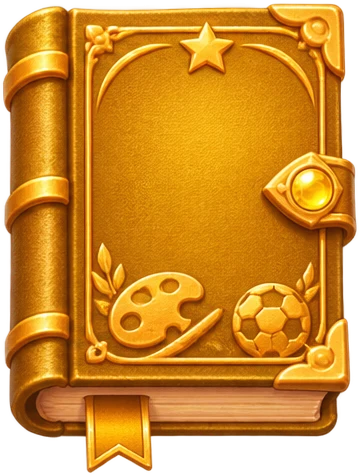
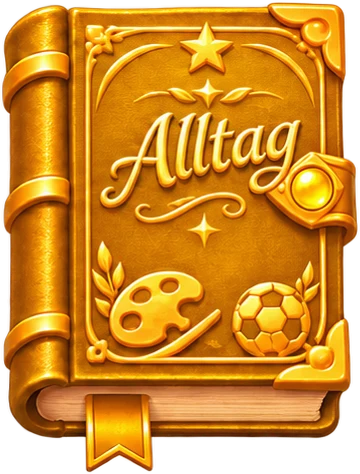
Bibliothek: Dejans neue Bücher mit Titel im Bild
Claude-Session: https://claude.ai/code/session_015F4ypguKCiePf7SvTB76p6

diff --git a/stil.js b/stil.js
@@ -1856,7 +1856,7 @@ ${R}[data-buch="geschichte"] .btitel{font-size:17cqi!important}${R}:is([data-buc
 .zauber .zbuch[data-buch] .zvorne .btitel{font-size:2.1rem!important}
 ${FARBE.map(([id, t, st]) => `${R}[data-buch="${id}"],.zauber .zbuch[data-buch="${id}"]{--bt:${t};--bs:${st}}`).join("\n")}
 
-${IDS.map(id => `${R}[data-buch="${id}"] .bcover,.zauber .zbuch[data-buch="${id}"] .zvorne{background-image:url("${B}${id}.webp?v=1")!important}`).join("\n")}
+${IDS.map(id => `${R}[data-buch="${id}"] .bcover,.zauber .zbuch[data-buch="${id}"] .zvorne{background-image:url("${B}${id}.webp?v=2")!important}`).join("\n")}
 .zauber .zbuch[data-buch] .zvorne{background-color:transparent!important;background-position:center!important;background-size:100% 100%!important;background-repeat:no-repeat!important;box-shadow:none!important;border-radius:0!important;padding:16% 24% 30% 17%!important;filter:drop-shadow(0 0 18px rgba(255,214,110,.7))}
 .zauber .zbuch[data-buch] .zvorne::before,.zauber .zbuch[data-buch] .zvorne .bemo2{display:none!important}
 .zauber .zbuch[data-buch] .zvorne .bunter{color:#FFE9A8;font-weight:700;text-shadow:0 1px 2px rgba(0,0,0,.7)}
@@ -1868,6 +1868,9 @@ ${IDS.map(id => `${R}[data-buch="${id}"] .bcover,.zauber .zbuch[data-buch="${id}
 .zkreis text{fill:#FFE29A;font:11px Georgia,serif;letter-spacing:3px}
 @keyframes zkdreh{to{transform:rotate(360deg)}}
 @media (prefers-reduced-motion: reduce){.zkreis svg{animation:none}}`;
+  c.textContent += `
+/* Dejans Bücher tragen den Titel jetzt selbst im Bild */
+${R} .btitel,${R} .bunter,.zauber .zbuch[data-buch] .zvorne .btitel,.zauber .zbuch[data-buch] .zvorne .bunter{position:absolute!important;width:1px!important;height:1px!important;overflow:hidden!important;clip:rect(0 0 0 0)!important;white-space:nowrap!important}`;
   document.head.appendChild(c);
   /* Titel so verkleinern, dass er samt Schräglage im inneren Goldrahmen bleibt */
   const SCHRAEG = 9 * Math.PI / 180;

diff --git a/index.html b/index.html
@@ -74,7 +74,7 @@ html.ep-boot #epBoot{display:flex;position:fixed;inset:0;z-index:99999;flex-dire
 <link rel="preload" as="image" href="img/kinder.webp">
 <script>/* Versionsprüfung: Ist diese Seite älter als die veröffentlichte Version (alter Speicher, Browser-Cache,
    Homescreen-App), alles Alte löschen und einmal frisch laden. Höchstens einmal pro 10 Minuten. */
-window.EP_BUILD="ep-2026-11-01-48";
+window.EP_BUILD="ep-2026-11-01-49";
 (function(){ try{
   if(window.claude || window.EP_NATIV || !/^https?:$/.test(location.protocol)){ window.__epVer="ok"; return; }   /* App (alles eingebaut) und Vorschau: keine Prüfung */
   /* Prüft, ob auf dem Server eine neuere Version liegt. Läuft beim Laden UND jedes Mal, wenn die Seite

diff --git a/sw.js b/sw.js
@@ -2,7 +2,7 @@
    Sorgt für schnelle Wiederholungsbesuche und Offline-Nutzung.
    Bei jeder Änderung an der App-Hülle VERSION hochzählen, damit alte Caches gelöscht werden. */
 
-const VERSION = "ep-2026-11-01-48";
+const VERSION = "ep-2026-11-01-49";
 const CACHE_HUELLE = VERSION + "-huelle";   // App-Hülle, Code, Daten
 // Bilder in einem festen Speicher: überlebt Updates (nur bilder/, img/, flags/), wird täglich still geprüft
 const CACHE_BILDER = "ep-bilder";

diff --git a/CLAUDE.md b/CLAUDE.md
@@ -34,6 +34,7 @@ _(leer)_
 - 21.10. 12:35, Sitzung «Hauptseite»: Danke! PR #11 und #12 sind bei mir übernommen. Ich lasse die Qeels-Blöcke in `index.html` und `qeels/` dir und melde mich hier, bevor ich dort etwas ändere.
 
 ## Erledigt (neueste oben)
+- 01.11. Sitzung «Hauptseite»: Bibliothek: Dejans neue Bücher mit eingebautem goldenem Schrift-Titel (`img/grafik/buecher/<id>.webp`, `?v=2`), der CSS-Titel ist nur noch für Vorleser da (unsichtbar), im Regal und beim Zauber-Öffnen. Kein App-Bau. Version ep-2026-11-01-49.
 - 01.11. Sitzung «Hauptseite»: Themen-Tab Handy/iPad: die vier Bereich-Kacheln mit Dejans Grafiken vom Computer (`img/kacheln/bereich-*.webp`, Globus, Mikroskop, Schweizerkreuz, Velo) als Neun-Teile-Bild auf `::before`, Symbol unverzerrt unten rechts (`--bs` per JS), weisses Symbol-Kästchen weg, Titel oben. Block «Themen am Handy/iPad: Bereich-Kacheln» am Ende von `stil.js`. Kein App-Bau. Version ep-2026-11-01-48.
 - 01.11. Sitzung «Hauptseite»: Bibliothek-Bücher: Titel steht jetzt über dem Edelstein (Innenabstand 15 % 17 % 61 % 21 %), dadurch mehr Breite bis zum rechten Goldrahmen. Version ep-2026-11-01-47.
 - 01.11. Sitzung «Hauptseite»: Bibliothek-Bücher: Titel füllt jetzt immer die Breite zwischen linker Goldlinie und Schliesse (`passen()` vergrössert und verkleinert, Ziel 94 % der freien Breite, Innenabstand links 20 %, rechts 24 %). Version ep-2026-11-01-46.
